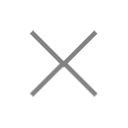
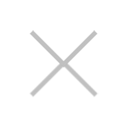
Fixed typo in Q/columns docs, made x more translucent

Changed region(s): [[0.2188, 0.2188, 0.7812, 0.75]]

diff --git a/platform/plugins/Q/web/js/tools/columns.js b/platform/plugins/Q/web/js/tools/columns.js
@@ -17,9 +17,9 @@
  *  @param {Boolean} [options.back.hide] Whether to hide the back button. Defaults to false, but you can pass true on android, for example.
  *  @param {Object}  [options.close] For customizing the back button on desktop and tablet
  *  @param {String}  [options.close.src] The src of the image to use for the close button
+ *  @param {Object}  [options.close.clickable] If not null, enables the Q/clickable tool with options from here. Defaults to null.
  *  @param {String}  [options.title] You can put a default title for all columns here (which is shown as they are loading)
  *  @param {String}  [options.column] You can put a default content for all columns here (which is shown as they are loading)
- *  @param {Object}  [options.clickable] If not null, enables the Q/clickable tool with options from here. Defaults to null.
  *  @param {Object}  [options.scrollbarsAutoHide] If not null, enables Q/scrollbarsAutoHide functionality with options from here. Enabled by default.
  *  @param {Boolean} [options.fullscreen] Whether to use fullscreen mode on mobile phones, using document to scroll instead of relying on possibly buggy "overflow" CSS implementation. Defaults to true on Android, false everywhere else.
  *  @param {Q.Event} [options.onOpen] Event that happens after a column is opened.
